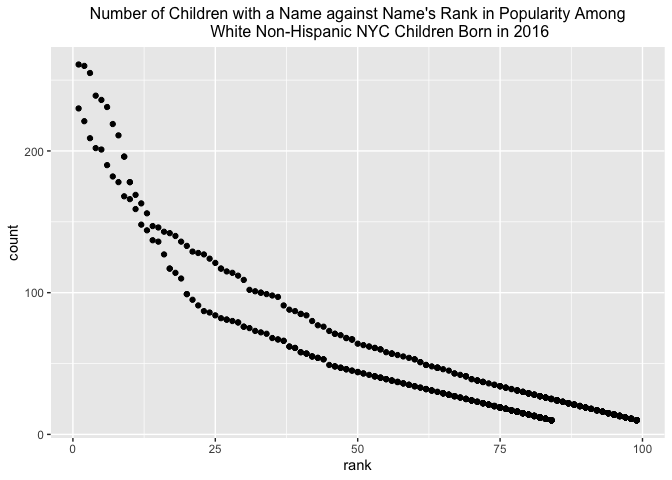
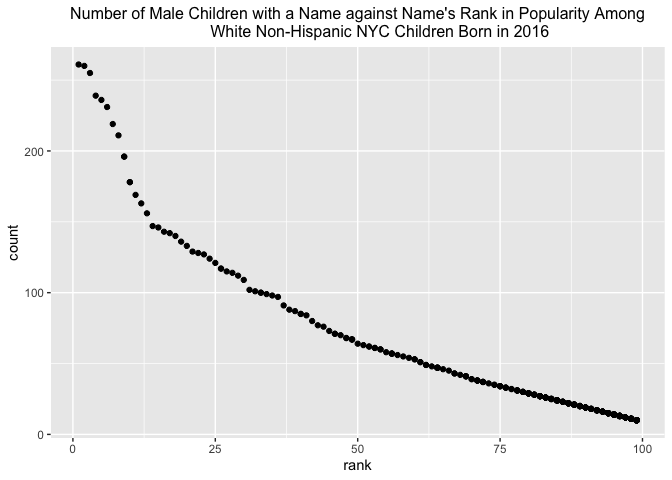
Problem 3: updating scatterplot so it's male only

diff --git a/p8105_hw2_mtr2143.md b/p8105_hw2_mtr2143.md
@@ -229,10 +229,10 @@ Most popular NYC male baby name by ethnicity from 2011 to 2016
 
 ``` r
 white_2016_names <- baby_names %>% 
-  filter(ethnicity == "white non hispanic" & year_of_birth == 2016)
+  filter(ethnicity == "white non hispanic" & year_of_birth == 2016 & gender == "male")
   
 ggplot(white_2016_names, aes(x = rank, y = count)) + geom_point() +
-  ggtitle("Number of Children with a Name against Name's Rank in Popularity Among
+  ggtitle("Number of Male Children with a Name against Name's Rank in Popularity Among
           White Non-Hispanic NYC Children Born in 2016") +
   theme(plot.title = element_text(size = 12, hjust = 0.5))
 ```
